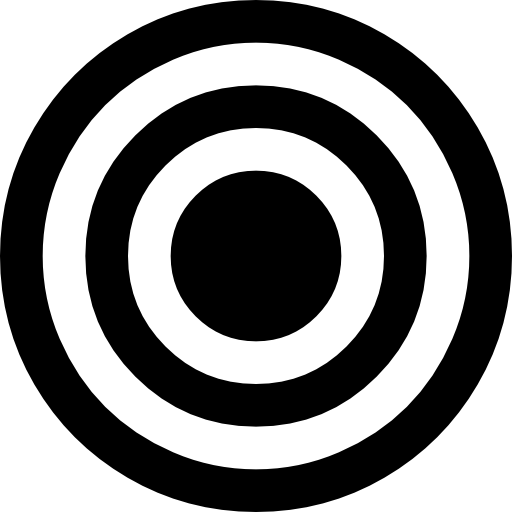
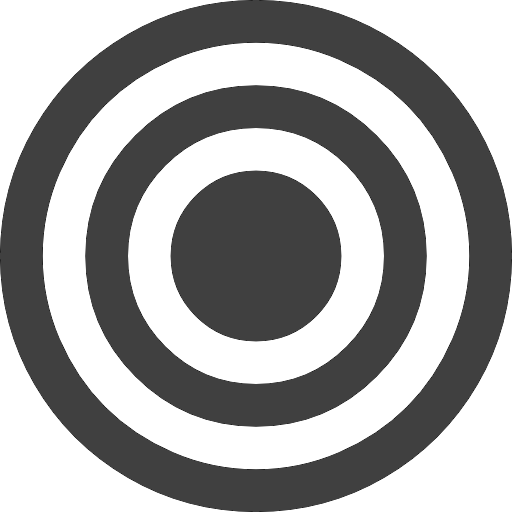
finish posting application styling

diff --git a/frontend/components/application/application_form.jsx b/frontend/components/application/application_form.jsx
@@ -1,4 +1,4 @@
-import React, { PropTypes } from 'react';
+import React from 'react';
 
 class ApplicationForm extends React.Component {
   constructor(props) {
@@ -7,7 +7,6 @@ class ApplicationForm extends React.Component {
     this.createApplication = props.createApplication.bind(this);
     this.update = this.update.bind(this);
     this.handleSubmit = this.handleSubmit.bind(this);
-    this.handleUpload = this.handleUpload.bind(this);
   }
 
   handleSubmit(e) {
@@ -39,9 +38,11 @@ class ApplicationForm extends React.Component {
         <div className='application-form-container'>
           <div className='application-position-info'>
             <img src={company.logo_url} alt={company.name}/>
-            <div>{this.props.posting.title}</div>
-            <div>{company.name}</div>
-            <div>{company.location}</div>
+            <div className='application-info-box'>
+              <h3>{this.props.posting.title}</h3>
+              <div>{company.name}</div>
+              <div>{company.location}</div>
+            </div>
           </div>
           <form className='application-form'>
             <textarea placeholder='Resume'

diff --git a/frontend/components/misc/header.jsx b/frontend/components/misc/header.jsx
@@ -36,7 +36,11 @@ class Header extends React.Component {
     return (
       <div className='header-background'>
         <section className='header'>
-          <h3 onClick={() => hashHistory.push('/')}>easyHire</h3>
+          <div className='header-group'
+               onClick={() => hashHistory.push('/')}>
+            <div className='header-icon'>{''}</div>
+            <h3>easyHire</h3>
+          </div>
           <Nav />
           {profButton}
           <Modal

diff --git a/frontend/components/companies/detail/company_header.jsx b/frontend/components/companies/detail/company_header.jsx
@@ -18,7 +18,7 @@ const CompanyHeader = ({company}) => {
         <div className='company-header-nav'>
           <Scrollchor to='#overview'>
             <div className='company-nav'>
-              <text>{'<icon>'}</text>Overview
+              <div className='nav-icon'>{''}</div>Overview
             </div>
           </Scrollchor>
           <Scrollchor to='#reviews'>

diff --git a/app/assets/stylesheets/api/posting_applications.scss b/app/assets/stylesheets/api/posting_applications.scss
@@ -28,10 +28,16 @@
 
 .application-position-info {
   float: left;
-  padding-left: 14px;
   padding-bottom: 14px;
 }
 
-.application-form {
-  padding: 14px 0;
+.application-info-box div {
+  font-size: 14px;
+  font-weight: 300;
+}
+
+.application-form textarea {
+  margin-bottom: 14px;
+  width: 500px;
+  height: 500px;
 }

diff --git a/app/assets/stylesheets/api/companies.scss b/app/assets/stylesheets/api/companies.scss
@@ -268,7 +268,12 @@
   text-align: right;
 }
 
-
+.nav-icon {
+  background-image: url('https://res.cloudinary.com/adoundakov/image/upload/v1478635092/images/bullseye_zijqqw.png');
+  width: 20px;
+  height: 20px;
+  background-size: cover;
+}
 
 
 

diff --git a/app/assets/stylesheets/api/postings.scss b/app/assets/stylesheets/api/postings.scss
@@ -56,7 +56,6 @@
   float: left;
   box-sizing: border-box;
   background-color: #eaeaea;
-  margin-bottom: 14px;
 }
 
 .posting-result-item {
